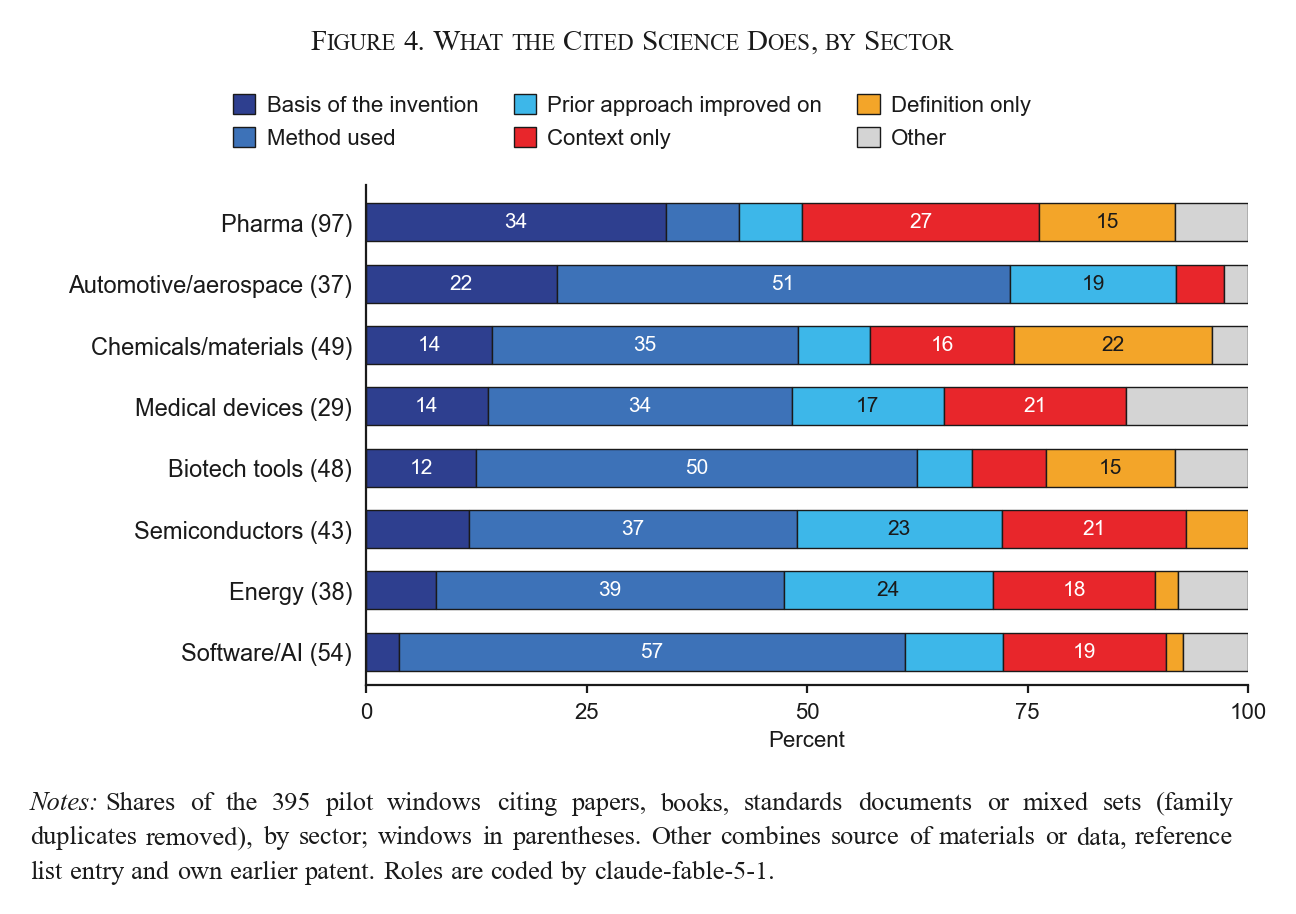
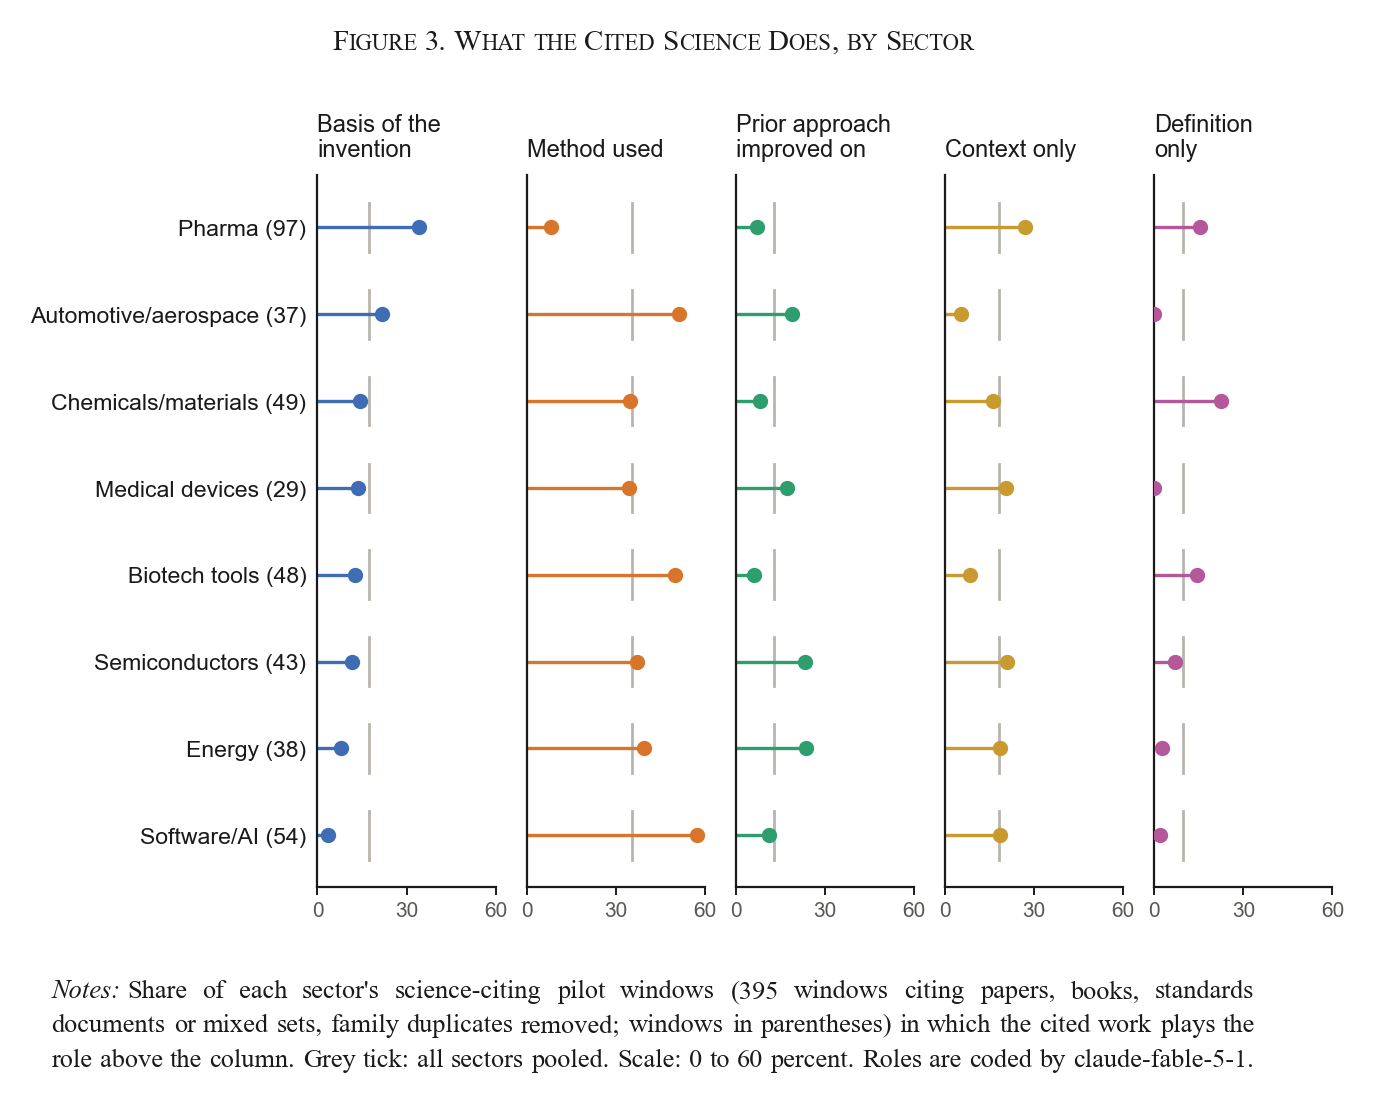
Pilot figures in the role-column layout (Figures 3-4); firm and field figures renumbered 6-9

diff --git a/5_figures/make_figures.py b/5_figures/make_figures.py
@@ -8,15 +8,14 @@ Papanikolaou, Seru and Taddy (2021, Figure 5): 'Figure n. Title' centred on top 
 Arial with black axes and outlines, short notes below whose numbers are computed here. Numbering follows the README.
   longrun_overall.png     Figure 1: share of grants citing science by class (rows) and role of the cited work by decade
   longrun_by_class.png    Figure 2: role of the cited work by class and decade, long-run sample
-  function_overall.png    Figure 3: what the cited paper does, paper-citing windows of the pilot
-  function_by_sector.png  Figure 4: shares by sector, pilot
-  function_by_firm.png    Figure 5: shares by firm, decade sample pooled over decades
-  what_is_cited.png       Figure 6: cited-document type, paper vs patent
+  function_by_sector.png  Figure 3: role of the cited work by sector, pilot (role_dots)
+  function_by_firm.png    Figure 4: role of the cited work by firm, decade sample pooled over decades (role_dots)
+  what_is_cited.png       Figure 5: cited-document type, paper vs patent
   function_by_decade.png  Figure A1: shares by sector and decade, nine-firm decade sample (superseded by Figure 2)
-  firms_by_role.png       Figure 7: role of the cited work by firm and decade, eleven firms (data/2_label/firms/)
-  firms_long_run.png      Figure 8: six firms over the long run, time running down
-  fields_by_role.png      Figure 9: role of the cited work by technology field and decade, fields by takeoff year (data/2_label/fields/)
-  fields_maturity.png     Figure 10: decade-adjusted role shares by years since the field's takeoff
+  firms_by_role.png       Figure 6: role of the cited work by firm and decade, eleven firms (data/2_label/firms/)
+  firms_long_run.png      Figure 7: six firms over the long run, time running down
+  fields_by_role.png      Figure 8: role of the cited work by technology field and decade, fields by takeoff year (data/2_label/fields/)
+  fields_maturity.png     Figure 9: decade-adjusted role shares by years since the field's takeoff
 """
 import collections, csv, json, pathlib, sys
 import matplotlib
@@ -168,34 +167,50 @@ def draw_rows(ax, groups, cats, show_n=True, min_label=0.12):
     style_x(ax)
 
 
-@paper_rc
-def figure_overall():
-    rows = [r for r in jsonl(PILOT) if not r.get("is_family_duplicate") and r["cited_doc_type"] == "paper"]
-    c = collections.Counter(r["function"] for r in rows); n = len(rows)
-    groups = [(None, [(DISPLAY[f], None) for f in FUNCS])]
-    fig, ax, notes_y = canvas(groups, "Figure 3. What the Cited Paper Does in the Patent", note_lines=2)
-    for y, f in enumerate(FUNCS):
-        v = c[f] / n
-        ax.barh(y, v, height=0.62, color=PAL.get(f, PAL["other"]), edgecolor=INK, linewidth=0.5)
-        pct = "<1" if 0 < v * 100 < 0.5 else f"{v * 100:.0f}"
-        ax.text(v + 0.006, y, f"{pct} ({c[f]})", va="center", ha="left", fontsize=8, color=INK)
-    ax.set_ylim(len(FUNCS) - 0.45, -0.6); ax.set_yticks(range(len(FUNCS))); ax.set_yticklabels([DISPLAY[f] for f in FUNCS], fontsize=8.5, color=INK)
-    style_x(ax, x_max=0.42)
-    paper_notes(fig, notes_y, f"Share of the {n} paper-citing windows of the pilot (patents with priority 2017 or later; family "
-                "duplicates removed) by the role of the cited paper; counts in parentheses. Roles are coded by claude-fable-5-1.")
-    fig.savefig(OUT / "function_overall.png", dpi=200, bbox_inches="tight", pad_inches=0.15); plt.close(fig)
+def role_dots(fig, groups, counts, pooled, top, bottom, x0, gap, labels=None):
+    """Cross-section in the layout of role_grid: one row per group, one column per role of the cited work (MAIN); a dot
+    at the group's share on a line from zero, a grey tick at the pooled share; one scale for every column (0 to the
+    largest share, rounded up to a tenth). Returns that scale."""
+    cw = (0.985 - x0 - gap * (len(MAIN) - 1)) / len(MAIN)
+    mx = max(counts[g][f] / sum(counts[g].values()) for g in groups for f in MAIN); mx = -(-mx * 10 // 1) / 10
+    for j, f in enumerate(MAIN):
+        cx = x0 + j * (cw + gap)
+        ax = fig.add_axes([cx, bottom, cw, top - bottom])
+        fig.text(cx, top + 0.012, LR_BAND_LABEL.get(f, DISPLAY[f]), fontsize=8.5, color=INK, va="bottom", linespacing=1.1)
+        pv = pooled[f] / sum(pooled.values())
+        for k, g in enumerate(groups):
+            v = counts[g][f] / sum(counts[g].values()); y = len(groups) - 1 - k
+            ax.plot([0, v], [y, y], color=GRID_COLOR[f], linewidth=1.2, solid_capstyle="round", zorder=2)
+            ax.plot([v], [y], "o", color=GRID_COLOR[f], markersize=4.5, zorder=3)
+            ax.plot([pv, pv], [y - 0.28, y + 0.28], color="#b8b5ae", linewidth=1.0, zorder=1)
+        ax.set_xlim(0, mx); ax.set_ylim(-0.6, len(groups) - 0.4); ax.set_yticks(range(len(groups)))
+        ax.set_yticklabels([(labels or {}).get(g, g) for g in reversed(groups)] if j == 0 else [""] * len(groups), fontsize=8.3, color=INK)
+        ax.set_xticks([0, mx / 2, mx]); ax.set_xticklabels(["0", f"{mx * 50:.0f}", f"{mx * 100:.0f}"], fontsize=7.5, color=INK2)
+        ax.tick_params(axis="y", length=0, pad=4); ax.tick_params(axis="x", length=3, width=0.7, color=INK, pad=2)
+        for side in ("top", "right"):
+            ax.spines[side].set_visible(False)
+        for side in ("left", "bottom"):
+            ax.spines[side].set_color(INK); ax.spines[side].set_linewidth(0.8)
+    return mx
 
 
 @paper_rc
 def figure_sector():
-    rows = read_csv(DATA / "4_aggregate" / "pilot" / "profiles_sector.csv")
-    rows.sort(key=lambda r: -r["foundation"])
-    groups = [(None, [(cap(r["key"]["sector"]), r) for r in rows])]
-    fig, ax, notes_y = canvas(groups, "Figure 4. What the Cited Science Does, by Sector", legend=CATS)
-    draw_rows(ax, groups, CATS)
-    paper_notes(fig, notes_y, f"Shares of the {sum(r['n'] for r in rows)} pilot windows citing papers, books, standards documents "
-                "or mixed sets (family duplicates removed), by sector; windows in parentheses. Other combines source of materials "
-                "or data, reference list entry and own earlier patent. Roles are coded by claude-fable-5-1.")
+    """Figure 3: the pilot's science-citing windows by sector, one column per role (role_dots); grey tick: all sectors."""
+    rows = science_rows(PILOT); sector_map = load_sector_map()
+    counts = collections.defaultdict(collections.Counter); pooled = collections.Counter()
+    for r in rows:
+        sct = cap(r.get("sector") or sector_map.get(r["assignee"], "other")); counts[sct][r["function"]] += 1; pooled[r["function"]] += 1
+    groups = sorted(counts, key=lambda g: -counts[g]["foundation"] / sum(counts[g].values()))
+    H = 0.42 * len(groups) + 2.6
+    fig = plt.figure(figsize=(7.0, H))
+    paper_title(fig, 1 - 0.32 / H, "Figure 3. What the Cited Science Does, by Sector")
+    top, bottom = 1 - 0.95 / H, 1.45 / H
+    mx = role_dots(fig, groups, counts, pooled, top, bottom, 0.26, 0.022, labels={g: f"{g} ({sum(counts[g].values())})" for g in groups})
+    paper_notes(fig, bottom - 0.55 / H,
+        f"Share of each sector's science-citing pilot windows ({len(rows)} windows citing papers, books, standards documents or "
+        "mixed sets, family duplicates removed; windows in parentheses) in which the cited work plays the role above the column. "
+        f"Grey tick: all sectors pooled. Scale: 0 to {mx * 100:.0f} percent. Roles are coded by claude-fable-5-1.")
     fig.savefig(OUT / "function_by_sector.png", dpi=200, bbox_inches="tight", pad_inches=0.15); plt.close(fig)
 
 
@@ -215,18 +230,22 @@ def figure_decade():
 
 @paper_rc
 def figure_firm():
-    by_firm = collections.defaultdict(collections.Counter)
-    canon = {"IBM": "International Business Machines"}
+    """Figure 4: the decade sample's nine firms, all decades pooled, one column per role (role_dots); grey tick: all firms."""
+    by = collections.defaultdict(collections.Counter); pooled = collections.Counter()
+    canon = {"International Business Machines": "IBM"}
     for r in science_rows(DECADES):
-        by_firm[canon.get(r["query_assignee"], r["query_assignee"])][r["function"]] += 1
-    short = {"International Business Machines": "IBM"}
-    sectors = [("Pharma", ["Pfizer", "Eli Lilly", "Bristol-Myers"]), ("Chemicals", ["Dow Chemical", "Du Pont", "Air Products"]),
-               ("Electronics", ["International Business Machines", "General Electric", "Texas Instruments"])]
-    groups = [(h, [(short.get(f, f), shares(by_firm[f])) for f in firms if sum(by_firm[f].values()) >= 5]) for h, firms in sectors]
-    fig, ax, notes_y = canvas(groups, "Figure 5. The Same Shares by Firm", legend=CATS, note_lines=2)
-    draw_rows(ax, groups, CATS)
-    paper_notes(fig, notes_y, "The nine firms of the decade sample, all decades pooled; science-citing windows in parentheses "
-                "(family duplicates removed). Roles are coded by claude-fable-5-1.")
+        f = canon.get(r["query_assignee"], r["query_assignee"]); by[f][r["function"]] += 1; pooled[r["function"]] += 1
+    order = ["Pfizer", "Eli Lilly", "Bristol-Myers", "Dow Chemical", "Du Pont", "Air Products", "IBM", "General Electric", "Texas Instruments"]
+    groups = [f for f in order if sum(by[f].values()) >= 5]
+    H = 0.42 * len(groups) + 2.6
+    fig = plt.figure(figsize=(7.0, H))
+    paper_title(fig, 1 - 0.32 / H, "Figure 4. The Same Shares by Firm, Decade Sample")
+    top, bottom = 1 - 0.95 / H, 1.45 / H
+    mx = role_dots(fig, groups, by, pooled, top, bottom, 0.26, 0.022, labels={g: f"{g} ({sum(by[g].values())})" for g in groups})
+    paper_notes(fig, bottom - 0.55 / H,
+        "Share of each firm's science-citing windows in the decade sample, all decades pooled (windows in parentheses, family "
+        "duplicates removed), in which the cited work plays the role above the column; pharma, chemicals and electronics "
+        f"firms from top to bottom. Grey tick: all nine firms pooled. Scale: 0 to {mx * 100:.0f} percent. Roles are coded by claude-fable-5-1.")
     fig.savefig(OUT / "function_by_firm.png", dpi=200, bbox_inches="tight", pad_inches=0.15); plt.close(fig)
 
 
@@ -247,8 +266,8 @@ def figure_cited():
     p_rows = sorted(((cap(s), doc_shares(v)) for s, v in pilot.items()), key=lambda kv: -kv[1]["science"])
     d_rows = [(cap(s), doc_shares(decades[s])) for s in ("pharma", "chemicals", "electrical/electronics")]
     groups = [("Pilot, priority 2017 or later", p_rows), ("Decade sample, 1900s to 2020s", d_rows)]
-    fig, ax, notes_y = canvas(groups, "Figure 6. What the Citation Window Points To", legend=DOC_CATS, note_lines=2)
-    draw_rows(ax, groups, DOC_CATS)
+    fig, ax, notes_y = canvas(groups, "Figure 5. What the Citation Window Points To", legend=DOC_CATS, note_lines=2)
+    draw_rows(ax, groups, DOC_CATS, min_label=1.1)
     paper_notes(fig, notes_y, "Share of citation windows by type of cited document, family duplicates removed; windows in "
                 "parentheses. Only science (papers, books, standards documents and mixed sets) enters the role profiles.")
     fig.savefig(OUT / "what_is_cited.png", dpi=200, bbox_inches="tight", pad_inches=0.15); plt.close(fig)
@@ -519,7 +538,7 @@ def class_matched_reference(rows, lr_rows):
 
 @paper_rc
 def figure_firms_grid(min_n=20, min_show=10):
-    """Figure 7: one row per firm (role_grid), every firm patent with an in-text science citation; grey: the long-run
+    """Figure 6: one row per firm (role_grid), every firm patent with an in-text science citation; grey: the long-run
     sample reweighted to the firm's technology-class mix in each decade (class_matched_reference)."""
     rows = science_rows(FIRMS_FILE)
     by, _ = cells_by(rows, "firm")
@@ -530,7 +549,7 @@ def figure_firms_grid(min_n=20, min_show=10):
     n = {f: sum(sum(by[f][d].values()) for d in LR_DECADES) for f in firms}
     H = 0.66 * len(firms) + 2.7
     fig = plt.figure(figsize=(7.0, H))
-    paper_title(fig, 1 - 0.32 / H, "Figure 7. How Firms Use the Science They Cite")
+    paper_title(fig, 1 - 0.32 / H, "Figure 6. How Firms Use the Science They Cite")
     top, bottom = 1 - 1.0 / H, 1.75 / H
     scales = role_grid(fig, firms, by, ref, top, bottom, 0.2, 0.024, min_n=min_n, min_show=min_show, ref_by_group=ref_g)
     lo, hi = min(n, key=n.get), max(n, key=n.get)
@@ -567,13 +586,13 @@ def stacked_down(ax, shares_by_row):
 
 @paper_rc
 def figure_firms_stacked(firms=("AT&T", "General Electric", "DuPont", "IBM", "Pfizer", "Google"), min_n=20):
-    """Figure 8: six firms with long records, role of the cited work by decade, time running down (Kelly et al. right
+    """Figure 7: six firms with long records, role of the cited work by decade, time running down (Kelly et al. right
     panel); decades with fewer than min_n science-citing patents are left blank."""
     by, _ = cells_by(science_rows(FIRMS_FILE), "firm")
     decs = LR_DECADES[2:]
     H = 6.6
     fig = plt.figure(figsize=(7.0, H))
-    paper_title(fig, 1 - 0.32 / H, "Figure 8. Six Firms, 1920s to 2020s")
+    paper_title(fig, 1 - 0.32 / H, "Figure 7. Six Firms, 1920s to 2020s")
     fig.legend([Patch(facecolor=c, edgecolor=INK, linewidth=0.5) for _, _, c in LR_CATS], [n for _, n, _ in LR_CATS],
                loc="upper center", bbox_to_anchor=(0.5, 1 - 0.48 / H), ncol=3, frameon=False, fontsize=8, labelcolor=INK,
                handlelength=1.0, handleheight=1.0, columnspacing=1.6, handletextpad=0.5, borderaxespad=0)
@@ -618,14 +637,14 @@ def field_takeoff(threshold=1000):
 
 @paper_rc
 def figure_fields_grid(min_n=20, min_show=10):
-    """Figure 9: one row per technology field, oldest takeoff first (role_grid); the dashed line marks the year of the
+    """Figure 8: one row per technology field, oldest takeoff first (role_grid); the dashed line marks the year of the
     field's 1,000th US grant; grey: all fields pooled."""
     by, pooled = cells_by(science_rows(FIELDS_FILE), "field")
     take = field_takeoff()
     fields = sorted([f for f in by if f in take and any(sum(by[f][d].values()) >= min_n for d in LR_DECADES)], key=lambda f: (take[f], f))
     H = 0.62 * len(fields) + 2.6
     fig = plt.figure(figsize=(7.0, H))
-    paper_title(fig, 1 - 0.32 / H, "Figure 9. Technology Fields of Different Ages")
+    paper_title(fig, 1 - 0.32 / H, "Figure 8. Technology Fields of Different Ages")
     top, bottom = 1 - 1.0 / H, 1.6 / H
     scales = role_grid(fig, fields, by, pooled, top, bottom, 0.255, 0.024, labels={f: f"{f} ({take[f]})" for f in fields},
                        marks=take, min_n=min_n, min_show=min_show)
@@ -682,12 +701,12 @@ def maturity_margins(rows, take):
 
 @paper_rc
 def figure_maturity():
-    """Figure 10: decade-adjusted role shares by field age (maturity_margins), one row per role in the style of Kelly et
+    """Figure 9: decade-adjusted role shares by field age (maturity_margins), one row per role in the style of Kelly et
     al. (2021, Figure 5, left panel); writes the numbers to data/5_figures/maturity_margins.csv."""
     rows = science_rows(FIELDS_FILE)
     take = field_takeoff()
     by, _ = cells_by(rows, "field")
-    rows = [r for r in rows if any(sum(by[r["field"]][d].values()) >= 20 for d in LR_DECADES)]  # the fields of Figure 9
+    rows = [r for r in rows if any(sum(by[r["field"]][d].values()) >= 20 for d in LR_DECADES)]  # the fields of Figure 8
     mm = maturity_margins(rows, take)
     with open(OUT / "maturity_margins.csv", "w", newline="", encoding="utf-8") as fcsv:
         w = csv.writer(fcsv); w.writerow(["role", "age_bin", "adjusted_share", "ci_low", "ci_high", "raw_share", "n_patents"])
@@ -696,7 +715,7 @@ def figure_maturity():
                 w.writerow([f, name.replace("\n", " "), f"{m:.4f}", f"{lo:.4f}", f"{hi:.4f}", f"{raw:.4f}", n])
     H = 6.2
     fig = plt.figure(figsize=(7.0, H))
-    paper_title(fig, 1 - 0.32 / H, "Figure 10. Science Use by the Age of a Technology Field")
+    paper_title(fig, 1 - 0.32 / H, "Figure 9. Science Use by the Age of a Technology Field")
     top, bottom = 1 - 0.75 / H, 1.75 / H
     xs = list(range(len(AGE_BINS)))
     axes = kelly_rows(fig, 0.3, 0.5, top, bottom, len(MAIN))
@@ -718,7 +737,7 @@ def figure_maturity():
     n = [t[4] for t in mm[MAIN[0]]]
     paper_notes(fig, bottom - 0.82 / H,
         "Share of science-citing patents in which the cited work plays each role, by the age of the patent's technology field "
-        "in its decade (decade midpoint minus the year of the field's 1,000th US grant), for the fields of Figure 9. Solid "
+        "in its decade (decade midpoint minus the year of the field's 1,000th US grant), for the fields of Figure 8. Solid "
         "line: shares adjusted for decade fixed effects, so that fields of different ages are compared within the same decade, "
         "with 95% intervals clustered by field; dotted line: raw shares; each row on its own scale. The youngest bin holds mostly "
         "lasers, genetic engineering, AI, lithium batteries and quantum computing, the oldest only fields that took off before 1912. Patents per age bin: "
@@ -727,7 +746,7 @@ def figure_maturity():
 
 
 if __name__ == "__main__":
-    figure_overall(); figure_sector(); figure_decade(); figure_firm(); figure_cited()
+    figure_sector(); figure_decade(); figure_firm(); figure_cited()
     if LONGRUN.exists():
         figure_longrun_classes(); figure_longrun_overall()
     if FIRMS_FILE.exists() and LONGRUN.exists():

diff --git a/README.md b/README.md
@@ -19,11 +19,11 @@ behind an NBER i3 Open Data Fellows 2027 proposal.
   invention falls from 16% in the 1900s to 6% in the 2020s.
 - **Firms differ most by what they make.** Google cites science as a method used in 74% of its science-citing patents;
   Pfizer's citations turned from methods (53% in 1950-79) to the biology the invention rests on (23% in 2000-26);
-  AT&T, GE, DuPont and IBM mostly mirror their industries ([Figures 7 and 8](#firms-and-fields)).
+  AT&T, GE, DuPont and IBM mostly mirror their industries ([Figures 6 and 7](#firms-and-fields)).
 - **Young fields look different, but not in a life-cycle way.** Fields observed before their takeoff cite science as
   the basis in 16% of patents and as a method in 18%, against 6-11% and 28-35% for old fields in the same decade; the
   contrast is between fields, not within them, and in the 2000s-2020s AI, genetic engineering, quantum computing and
-  lithium batteries use science much like century-old fields ([Figures 9 and 10](#firms-and-fields)).
+  lithium batteries use science much like century-old fields ([Figures 8 and 9](#firms-and-fields)).
 
 The roles in the figures: **Basis of the invention**, the finding the invention rests on; **Method used**, a technique
 the inventors carry out; **Prior approach improved on**; **Context only**, the paper frames the problem;
@@ -46,7 +46,7 @@ window finder and a full-text read could find; their lines are dotted or missing
 
 ## Firms and fields
 
-![Figure 7: how firms use the science they cite](data/5_figures/firms_by_role.png)
+![Figure 6: how firms use the science they cite](data/5_figures/firms_by_role.png)
 
 Every patent of eleven firms with an in-text citation to science, one window per patent, 38,698 science-citing
 patents after repeated window texts (continuations, boilerplate) are counted once. AT&T, General Electric and DuPont
@@ -55,9 +55,9 @@ cite science mainly as a method before 1950 and follow the economy-wide rise of 
 all methods used (74%, against 44% for its technology class): machine-learning, vision and systems papers, many of
 them its own.
 
-![Figure 8: six firms, 1920s to 2020s](data/5_figures/firms_long_run.png)
+![Figure 7: six firms, 1920s to 2020s](data/5_figures/firms_long_run.png)
 
-![Figure 9: technology fields of different ages](data/5_figures/fields_by_role.png)
+![Figure 8: technology fields of different ages](data/5_figures/fields_by_role.png)
 
 Fourteen fields defined by the first CPC code, up to 60 patents per field and decade, each dated by the year of its
 1,000th US grant. Lasers in the 1960s, genetic engineering and AI in the 1980s and quantum computing in the 1990s
@@ -65,7 +65,7 @@ cite science before their takeoff more often as the basis of the invention and l
 do in the same decade; the prior-approach share peaks 40 to 60 years after takeoff and is lowest in fields more than a
 century old.
 
-![Figure 10: science use by the age of a technology field](data/5_figures/fields_maturity.png)
+![Figure 9: science use by the age of a technology field](data/5_figures/fields_maturity.png)
 
 The age profile compares fields of different ages within a decade, not a field with its own past: with field fixed
 effects the method and prior-approach gaps vanish, and the basis gap is not significant at other takeoff dates. In
@@ -75,21 +75,17 @@ quantum computing 10%; pharmaceuticals 26% basis, polymers 3%).
 
 ## What the pilots show
 
-![Figure 3: what the cited paper does in the patent](data/5_figures/function_overall.png)
+![Figure 3: what the cited science does, by sector](data/5_figures/function_by_sector.png)
 
-A method is the most common thing a patent takes from a paper (36% of 316 paper-citing windows).
-
-![Figure 4: what the cited science does, by sector](data/5_figures/function_by_sector.png)
-
-Pharma cites science for the biology the invention rests on and for disease context; software/AI, biotech tools and
+A method is the most common thing a patent takes from a paper (36% of 316 paper-citing windows). Pharma cites science for the biology the invention rests on and for disease context; software/AI, biotech tools and
 automotive firms for methods; semiconductors and energy have the largest shares of prior approaches improved on.
 
-![Figure 5: the same shares by firm](data/5_figures/function_by_firm.png)
+![Figure 4: the same shares by firm](data/5_figures/function_by_firm.png)
 
 Dow cites procedures where Du Pont and Air Products improve on prior approaches; Pfizer cites target biology where
 Bristol-Myers cites disease context; General Electric uses standards and papers as methods where IBM improves on them.
 
-![Figure 6: what the citation window points to](data/5_figures/what_is_cited.png)
+![Figure 5: what the citation window points to](data/5_figures/what_is_cited.png)
 
 "et al." does not mean a paper: in the decade sample's electronics sector, 27% of the citation windows point to other
 patents. The document-type label keeps those out of the profiles.
@@ -211,7 +207,7 @@ data/examples/demo/         worked example: four patents, every intermediate fil
   repeats the text of an earlier patent of the same firm is flagged and left out of the figures (14-57% of a firm's
   patents, continuations and templates). Fields are first-CPC-code groups (`local` scripts, listed in the docstring of
   `2_label/labels_fields.py`); takeoff is the year of the field's 1,000th US grant from Google Patents Public
-  Data. The grey benchmark in Figure 7 is the long-run sample reweighted to each firm's technology-class mix in the decade,
+  Data. The grey benchmark in Figure 6 is the long-run sample reweighted to each firm's technology-class mix in the decade,
   because the pooled sample weights the 11 classes equally and single-industry firms differ from it mainly through
   their class. Generic standard citations (IEEE 802.11, IEEE 754,
   the IEEE dictionary) are labeled inconsistently between method and context and need a codebook rule.
